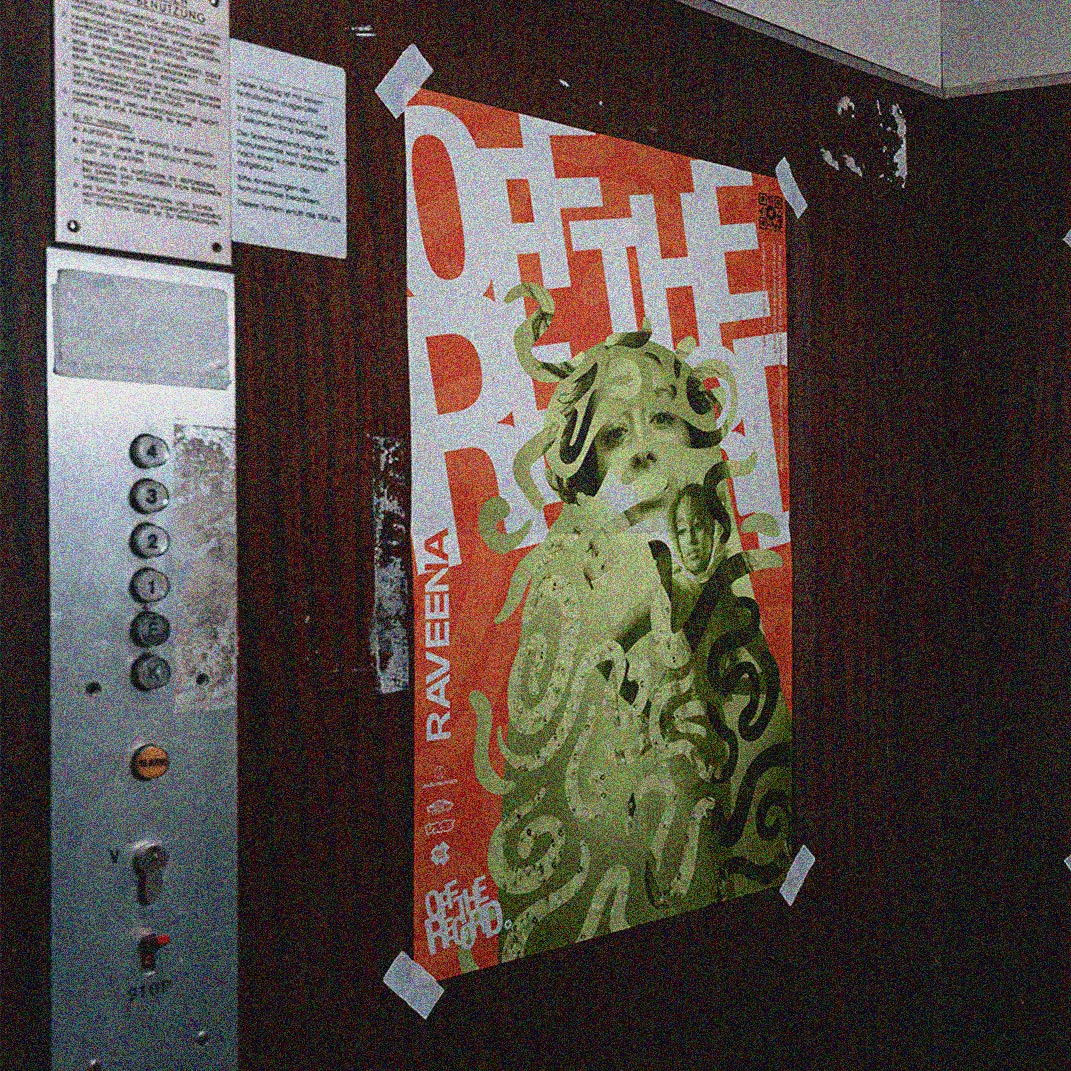
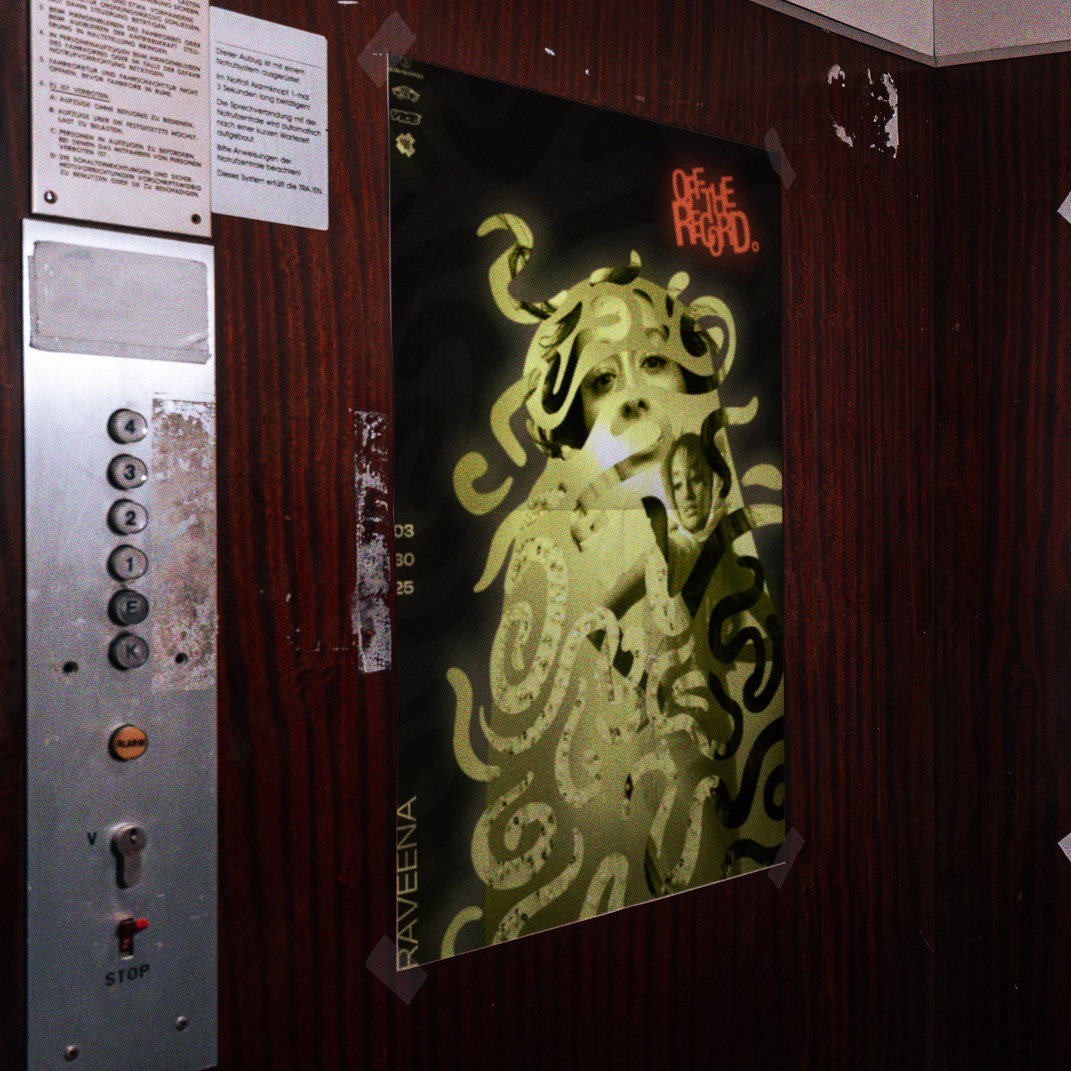
small update

diff --git a/OffTheRecord-KeiraSchick.html b/OffTheRecord-KeiraSchick.html
@@ -147,31 +147,64 @@
           </li>
         </ul>
 
+        <ul class="column-3">
+          <li class="OTR-screenshot">
+            <img
+              src="assets/branding-images/Childish_GlowPoster_KeiraSchick.jpg"
+            />
+          </li>
+          <li class="OTR-screenshot">
+            <img src="assets/branding-images/Mac_GlowPoster.jpg" />
+          </li>
+          <li class="OTR-screenshot">
+            <img src="assets/branding-images/Raveena_GlowPoster.jpg" />
+          </li>
+        </ul>
+
+        <ul class="column-2-work-description">
+          <li class="case-study-text">
+            <p class="case-study-title">The Visual Identity.</p>
+            <h5 class="case-study-description">
+              OTR is built on suspense and grand moments, maintaining  the sense
+              of keeping it “off the record.” The visual direction  was centred
+              on the unique spirit of each renowned artist,  and inspired by the
+              underground environment. Neon lights,  soft glows, and rhythmic
+              patterns create an elevated and suspenseful feel.
+            </h5>
+          </li>
+        </ul>
+
         <ul class="column-2-work-description">
           <li>
             <img
-              class="cross-banner-image"
-              src="assets/branding-images/KeiraSchick_OffTheRecord_LogoThumbnail.jpg"
-              alt="Off The Record Logo"
-              width="1500"
-              height="488"
+              src="assets/branding-images/PosterFloorMockup_OTR_KeiraSchick.jpg"
+              alt="Off The Record floor poster mockip"
             />
           </li>
         </ul>
 
-        <div class="column-2-work-description">
-          <ul class="case-study-text">
-            <p class="case-study-title">The Logo.</p>
+        <ul class="column-2-work-description">
+          <li class="case-study-text">
+            <p class="case-study-title">The Posters.</p>
             <h5 class="case-study-description">
-              The identity for Off The Record resonates best with a loose and
-              chaotic logo, to represent the raw and unfiltered essence of music
-              played at the events. As an additional touch, a little record lp
-              is used as the period.
+              Since the autobiographical concerts take place in small intimate
+              venues, the fans need to feel a sense of connection and
+              authenticity. Emphasizing the artist's eyes allow that feeling to
+              be replicated through the posters and promotional material.
             </h5>
-          </ul>
-        </div>
+          </li>
+        </ul>
 
-        <section class="marquee-work">
+        <ul class="column-2-work-description">
+          <li>
+            <img
+              src="assets/branding-images/GLOWMOCKUP.gif"
+              alt="Off The Record floor poster mockip"
+            />
+          </li>
+        </ul>
+
+        <section class="marquee-work invert-me">
           <div class="marquee__track">
             <!-- Original content block -->
             <div class="marquee__content">
@@ -204,6 +237,54 @@
             </div>
           </div>
         </section>
+
+        <ul class="column-2-work-description">
+          <li>
+            <img
+              class="cross-banner-image"
+              src="assets/branding-images/KeiraSchick_OffTheRecord_LogoThumbnail.jpg"
+              alt="Off The Record Logo"
+              width="1500"
+              height="488"
+            />
+          </li>
+        </ul>
+
+        <div class="column-2-work-description">
+          <ul class="case-study-text">
+            <p class="case-study-title">The Logo.</p>
+            <h5 class="case-study-description">
+              The identity for Off The Record resonates best with a loose and
+              chaotic logo, to represent the raw and unfiltered essence of music
+              played at the events. As an additional touch, a little record lp
+              is used as the period.
+            </h5>
+          </ul>
+        </div>
+
+        <ul class="column-2-work-description">
+          <li>
+            <img
+              src="assets/branding-images/OTR_RecordMockup.gif"
+              alt="Off The Record floor poster mockip"
+            />
+          </li>
+        </ul>
+
+        <ul class="column-2">
+          <li class="work-image-1">
+            <img
+              src="assets/branding-images/OTR_ChildishRecordMockup.jpg"
+              alt="OffTheRecord Vinyl Mockup Gif"
+            />
+          </li>
+          <li class="work-image-2">
+            <img
+              src="assets/branding-images/OTR_insideslip_record.gif"
+              alt="OffTheRecord Vinyl Mockup Gif"
+            />
+          </li>
+        </ul>
 
         <ul class="column-2-work-description">
           <li>
@@ -317,51 +398,6 @@
               artist, focusing on the excitement and hype of the concert.
               Visually, the posters are very loud, taking away from the more
               sentimental moments of the event.
-            </h5>
-          </li>
-        </ul>
-
-        <ul class="column-2">
-          <li class="work-image-1">
-            <img
-              src="assets/branding-images/Records_Front-03.gif"
-              alt="OffTheRecord Vinyl Mockup Gif"
-            />
-          </li>
-          <li class="work-image-2">
-            <img
-              src="assets/branding-images/KeiraSchick_OTR_RecordsBack-03.gif"
-              alt="OffTheRecord Vinyl Mockup Gif"
-            />
-          </li>
-        </ul>
-
-        <ul class="column-3">
-          <li class="OTR-screenshot">
-            <img
-              src="assets/branding-images/KeiraSchick_PosterPlaceholder.jpg"
-            />
-          </li>
-          <li class="OTR-screenshot">
-            <img
-              src="assets/branding-images/KeiraSchick_PosterPlaceholder.jpg"
-            />
-          </li>
-          <li class="OTR-screenshot">
-            <img
-              src="assets/branding-images/KeiraSchick_PosterPlaceholder.jpg"
-            />
-          </li>
-        </ul>
-
-        <ul class="column-2-work-description">
-          <li class="case-study-text">
-            <p class="case-study-title">The New Posters.</p>
-            <h5 class="case-study-description">
-              Since the autobiographical concerts are in small intimate venues
-              the fans need to feel a sense of connection and authenticity.
-              Emphasizing the artist’s eyes allow that feeling to be replicated
-              through the posters.
             </h5>
           </li>
         </ul>

diff --git a/about.html b/about.html
@@ -125,9 +125,19 @@ I like my work to make a statement—so when I design—it’s going to be bold 
                 target="_blank"
               >
                 <p class="about-category-header">
-                  Young Ones ADC Finalist | Brand Identities - Print
+                  Salazar Honourable Mention 
                 </p>
-                <p class="about-category-body" style="color: black">2026</p>
+                <p class="about-category-body" style="color: black">2026 | Branding </p>
+              </a>
+ <a
+                class="ribbon"
+                href="https://www.appliedartsmag.com/winners/student/heartwood-gin-w343/?year=2025"
+                target="_blank"
+              >
+                <p class="about-category-header">
+                  Salazar Honourable Mention 
+                </p>
+                <p class="about-category-body" style="color: black">2026 | Print </p>
               </a>
               <a
                 class="ribbon"
@@ -135,9 +145,19 @@ I like my work to make a statement—so when I design—it’s going to be bold 
                 target="_blank"
               >
                 <p class="about-category-header">
-                  Applied Arts Student Award Winner Design | Packaging Series
+                  Young Ones ADC Bronze Cube 
                 </p>
-                <p class="about-category-body" style="color: black">2025</p>
+                <p class="about-category-body" style="color: black">2026 | Brand Identities - Print</p>
+              </a>
+              <a
+                class="ribbon"
+                href="https://www.appliedartsmag.com/winners/student/heartwood-gin-w343/?year=2025"
+                target="_blank"
+              >
+                <p class="about-category-header">
+                  Applied Arts Student Award Winner
+                </p>
+                <p class="about-category-body" style="color: black">2025 | Design - Packaging Series</p>
               </a>
               <a
                 class="ribbon"
@@ -145,13 +165,13 @@ I like my work to make a statement—so when I design—it’s going to be bold 
                 target="_blank"
               >
                 <p class="about-category-header">
-                  RGD Student Award Winner Design | Packaging Series
+                  RGD Student Award Winner 
                 </p>
-                <p class="about-category-body" style="color: black">2025</p>
+                <p class="about-category-body" style="color: black">2025 | Design - Packaging Series</p>
               </a>
               <li class="ribbon">
                 <p class="about-category-header">Dean’s List</p>
-                <p class="about-category-body">2023 - 2025</p>
+                <p class="about-category-body">2023 - 2026</p>
               </li>
               <li class="ribbon">
                 <p class="about-category-header">
@@ -181,11 +201,8 @@ I like my work to make a statement—so when I design—it’s going to be bold 
                   class="work-category-header all-caps"
                   href="https://resonanceco.com/"
                   target="_blank"
-                  ><em>Resonance</em></a
-                >
-                <p class="work-category-body" style="color: #bedd4e">
-                  Junior Graphic Designer
-                </p>
+                  ><em>Resonance Co.</em></a
+                ><P class="work-category-body" style="color: #bedd4e"> &#10551; Junior Graphic Designer </P>
               </li>
               <li
                 class="work-category-container"
@@ -199,10 +216,10 @@ I like my work to make a statement—so when I design—it’s going to be bold 
                   class="work-category-header all-caps"
                   href="https://resonanceco.com/"
                   target="_blank"
-                  ><em>Resonance</em></a
+                  ><em>Resonance Co.</em></a
                 >
                 <p class="work-category-body" style="color: #bedd4e">
-                  Junior Graphic Design Internship
+                  &#10551; Junior Graphic Design Internship
                 </p>
               </li>
             </ul>
